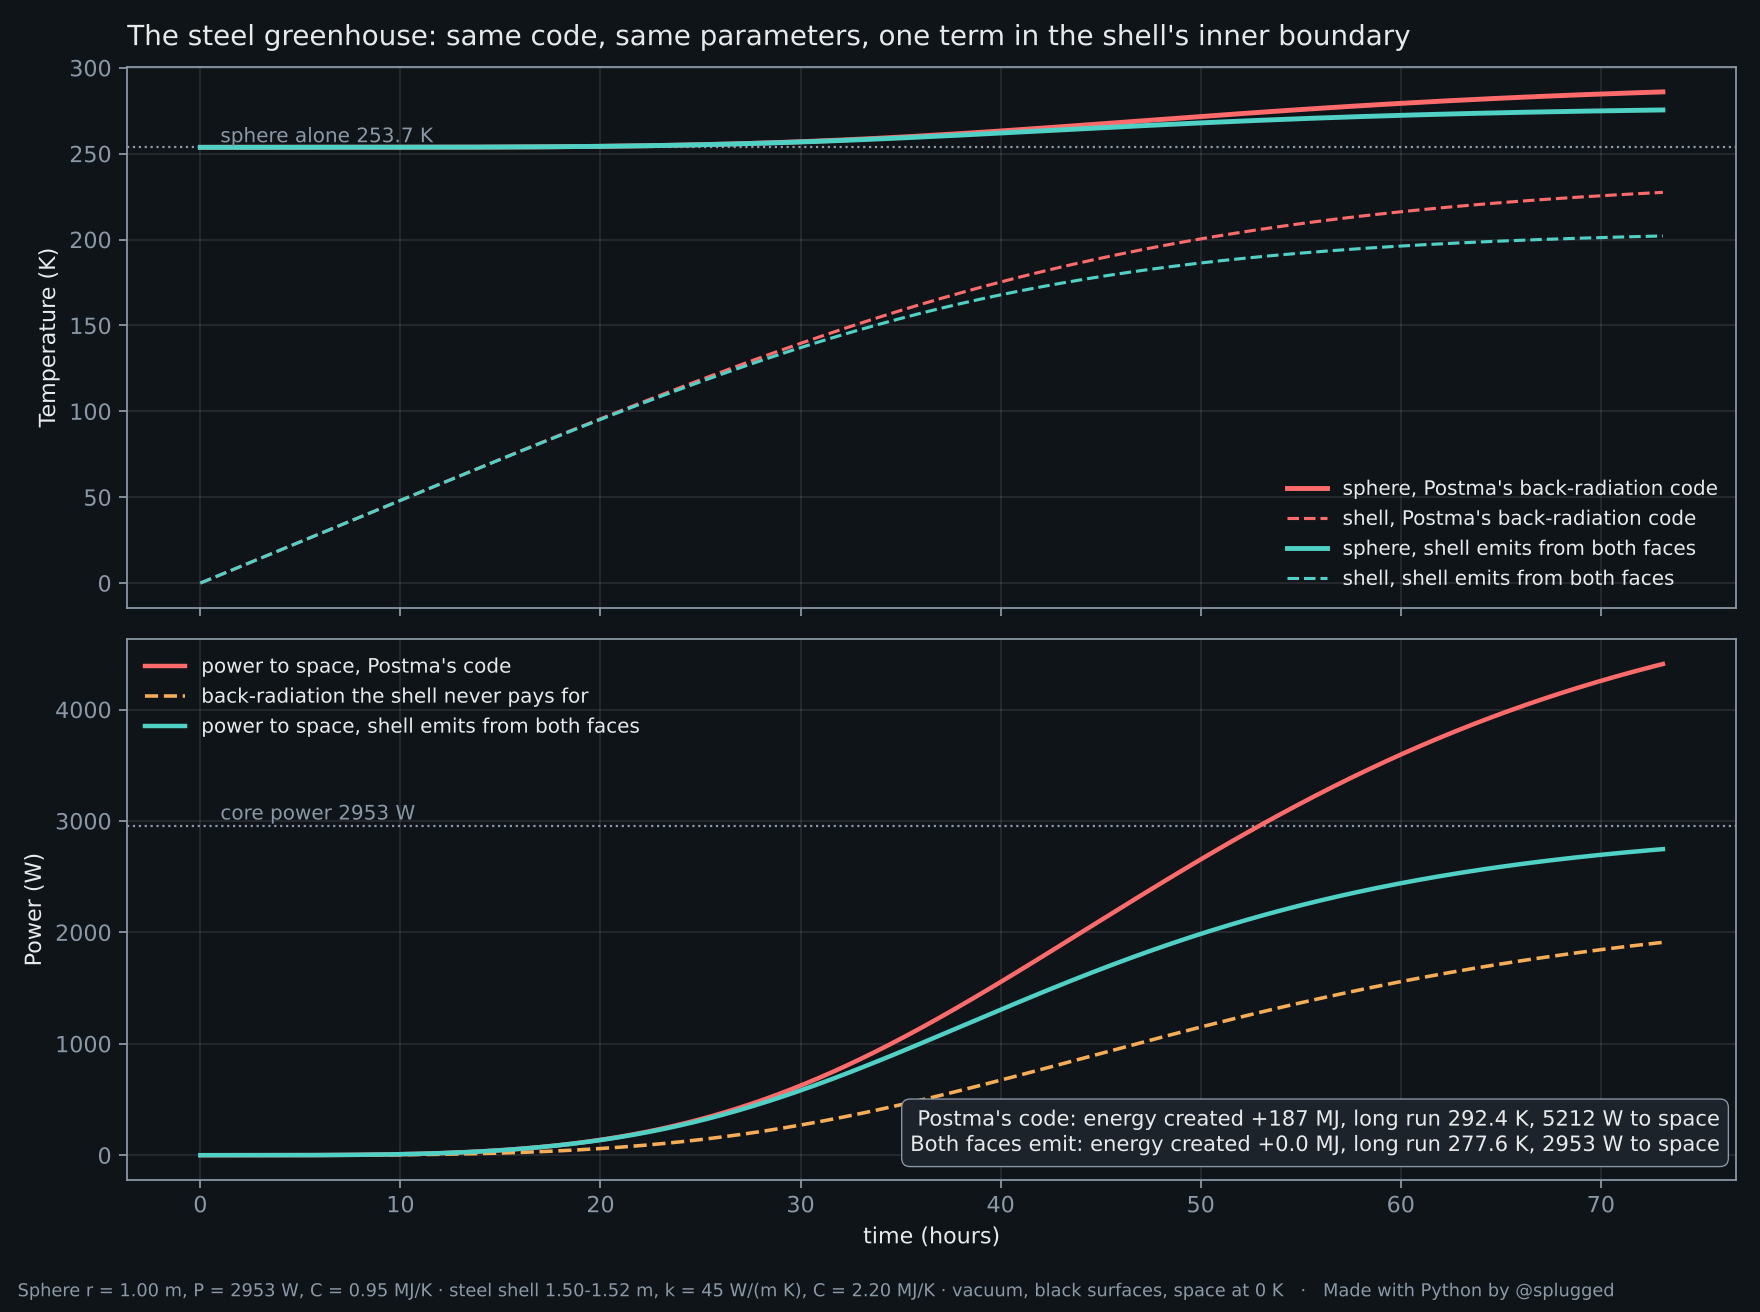
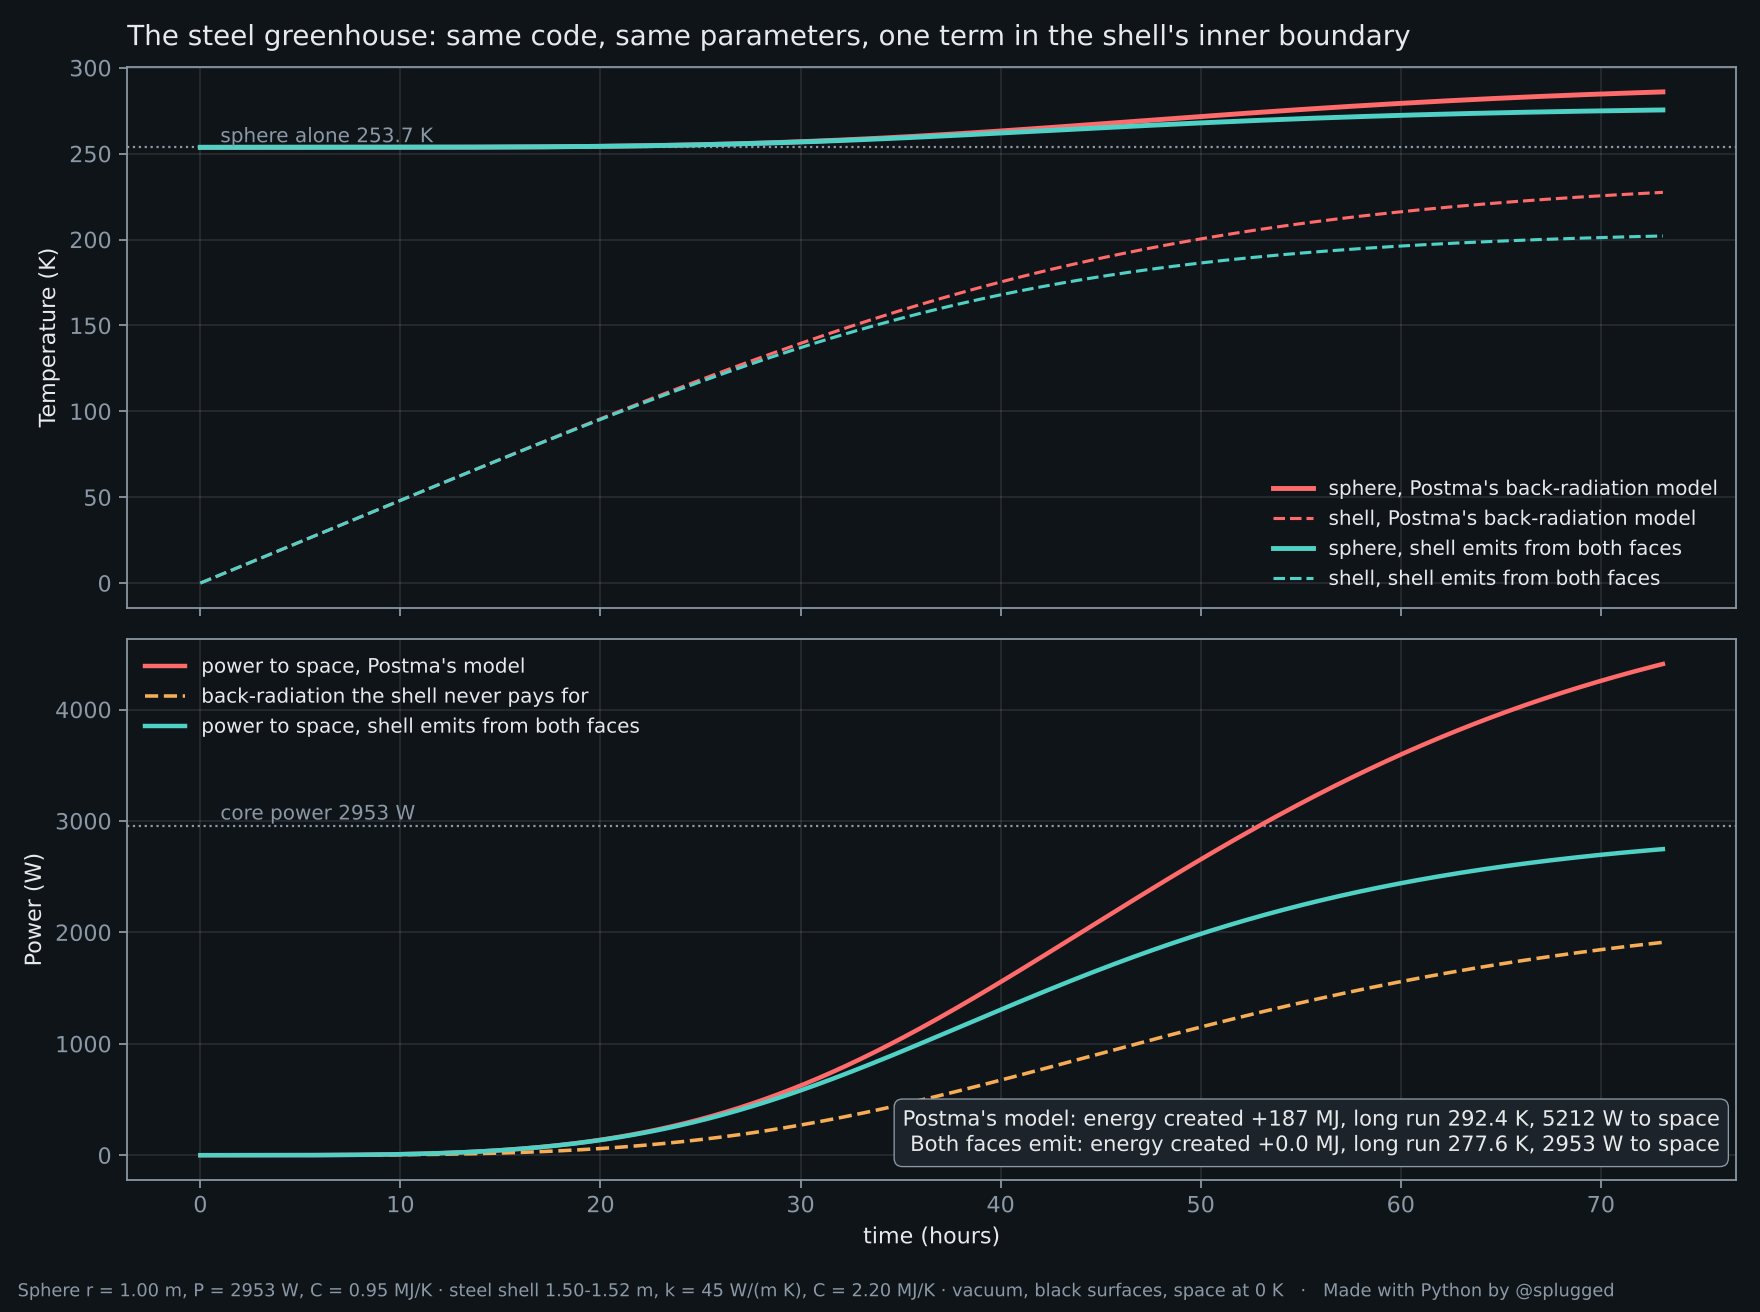
Add files via upload

Changed region(s): [[0.75, 0.3438, 0.9688, 0.4688], [0.5, 0.8438, 0.625, 0.875], [0.25, 0.5, 0.3125, 0.5312]]

diff --git a/index.html b/index.html
@@ -60,7 +60,7 @@
 <body>
 <main>
   <h1>The Steel Greenhouse</h1>
-  <p class="sub">A heated sphere in vacuum inside a thin steel shell. Same model and same parameters as Postma's simulation
+  <p class="sub">A heated sphere in vacuum inside a thin steel shell. Postma's model, rebuilt from the equations and parameters printed on his figures
   (sphere 1.00 m, 2953 W; steel shell at 1.52 m; shell starts at 0 K). Flip one switch: does the shell's inner face emit, or not?
   Then watch the energy ledger.</p>
 
@@ -69,7 +69,7 @@
       <h2>Shell inner boundary</h2>
       <div class="mode">
         <button class="phys" id="bPhys" aria-pressed="true">Both faces emit<span class="k">physics (Kirchhoff)</span></button>
-        <button class="post" id="bPost" aria-pressed="false">Inner face absorbs only<span class="k">Postma's code</span></button>
+        <button class="post" id="bPost" aria-pressed="false">Inner face absorbs only<span class="k">Postma's model</span></button>
       </div>
       <div class="bc" id="bc"></div>
 
@@ -127,7 +127,7 @@
     <h2>What the switch changes</h2>
     <p>Everything else is identical: the sphere receives the core's power plus whatever the shell radiates onto it, and emits
     <code>σT⁴</code> from its surface; the shell radiates to space from its outer face.</p>
-    <p><b>Inner face absorbs only</b> is the boundary condition in Postma's simulation. The shell soaks up the sphere's radiation,
+    <p><b>Inner face absorbs only</b> is the boundary condition printed on Postma's figures. The shell soaks up the sphere's radiation,
     and in his "back-radiation" run the sphere also receives <code>A_sp·σ·T_sh⁴</code> from the shell, but the shell never loses it.
     Energy is counted twice, so the ledger fills with energy created from nothing: in his own figure, "energy created = P_back".
     The temperature rise in that run is real arithmetic on a broken ledger.</p>

diff --git a/steel_greenhouse.py b/steel_greenhouse.py
@@ -159,8 +159,8 @@ def main():
     fig, (ax1, ax2) = plt.subplots(2, 1, figsize=(11, 8.2), dpi=160, sharex=True)
     ax1.axhline(T_SP0, color=DIM, ls=":", lw=1)
     ax1.text(1, T_SP0 + 3, "sphere alone 253.7 K", color=DIM, fontsize=9)
-    ax1.plot(B["t"], B["T_sp"], color="#ff6b6b", lw=2.2, label="sphere, Postma's back-radiation code")
-    ax1.plot(B["t"], B["T_out"], color="#ff6b6b", lw=1.4, ls="--", label="shell, Postma's back-radiation code")
+    ax1.plot(B["t"], B["T_sp"], color="#ff6b6b", lw=2.2, label="sphere, Postma's back-radiation model")
+    ax1.plot(B["t"], B["T_out"], color="#ff6b6b", lw=1.4, ls="--", label="shell, Postma's back-radiation model")
     ax1.plot(Ph["t"], Ph["T_sp"], color="#4fd1c5", lw=2.2, label="sphere, shell emits from both faces")
     ax1.plot(Ph["t"], Ph["T_out"], color="#4fd1c5", lw=1.4, ls="--", label="shell, shell emits from both faces")
     ax1.set_ylabel("Temperature (K)")
@@ -171,7 +171,7 @@ def main():
 
     ax2.axhline(P_INT, color=DIM, ls=":", lw=1)
     ax2.text(1, P_INT + 60, "core power 2953 W", color=DIM, fontsize=9)
-    ax2.plot(B["t"], B["p_out"], color="#ff6b6b", lw=2, label="power to space, Postma's code")
+    ax2.plot(B["t"], B["p_out"], color="#ff6b6b", lw=2, label="power to space, Postma's model")
     ax2.plot(B["t"], B["p_back"], color="#f6ad55", lw=1.6, ls="--", label="back-radiation the shell never pays for")
     ax2.plot(Ph["t"], Ph["p_out"], color="#4fd1c5", lw=2, label="power to space, shell emits from both faces")
     ax2.set_ylabel("Power (W)")
@@ -181,7 +181,7 @@ def main():
     eB, eP = at(B, a.hours), at(Ph, a.hours)
     sB, sP = steady_state("backradiation"), steady_state("physics")
     ax2.text(0.99, 0.04,
-             f"Postma's code: energy created {eB['created'] / 1e6:+.0f} MJ, long run {sB[0]:.1f} K, "
+             f"Postma's model: energy created {eB['created'] / 1e6:+.0f} MJ, long run {sB[0]:.1f} K, "
              f"{A_SP * SIGMA * sB[0] ** 4:.0f} W to space\n"
              f"Both faces emit: energy created {eP['created'] / 1e6:+.1f} MJ, long run {sP[0]:.1f} K, "
              f"{P_INT:.0f} W to space",

diff --git a/README.md b/README.md
@@ -2,11 +2,15 @@
 
 A heated sphere in vacuum, wrapped in a thin steel shell. Does the shell make the sphere warmer?
 
-Joseph E. Postma says no, and that the opposite answer violates conservation of energy. He has published simulations to show it. This repository reproduces those simulations **with his own model and parameters, number by number**, and shows where the "created" energy in them comes from: **one term in the shell's inner boundary condition**.
+Joseph E. Postma says no, and that the opposite answer violates conservation of energy. He has published simulations to show it. His code is not public, but his figures print the equations and every parameter. This repository rebuilds the model **from those equations and parameters**, reproduces his results **number by number**, and shows where the "created" energy comes from: **one term in the shell's inner boundary condition**.
 
 **Interactive page:** `https://Davey811.github.io/steel-greenhouse/` (flip the switch and watch the energy ledger)
 
 ![Same code, one term](results/one_term.png)
+
+## Where the model comes from
+
+Postma has not published his code. His figures, however, print the full model: the heat-conduction equation in the shell, the shell's inner and outer boundary conditions, the sphere's energy balance, and all parameters (radii, power, densities, heat capacities, conductivity, starting temperatures, run length). `steel_greenhouse.py` implements exactly those equations. The test of a faithful reconstruction is the output: it matches his figures to the decimal, including the 1912 W he labels "created".
 
 ## The numbers
 
@@ -54,7 +58,7 @@ Of what the inner face emits, a fraction `A_sp/A_in` reaches the sphere and the 
 
 ## Why the inner face must emit
 
-Kirchhoff's law: a surface that absorbs infrared also emits it. It follows from the second law of thermodynamics. A surface that absorbed without emitting, placed inside a cavity at uniform temperature, would warm itself above the cavity, with no work done. The shell in Postma's code is exactly such a surface.
+Kirchhoff's law: a surface that absorbs infrared also emits it. It follows from the second law of thermodynamics. A surface that absorbed without emitting, placed inside a cavity at uniform temperature, would warm itself above the cavity, with no work done. The shell in Postma's model is exactly such a surface.
 
 ## Steady state, any shell
 
